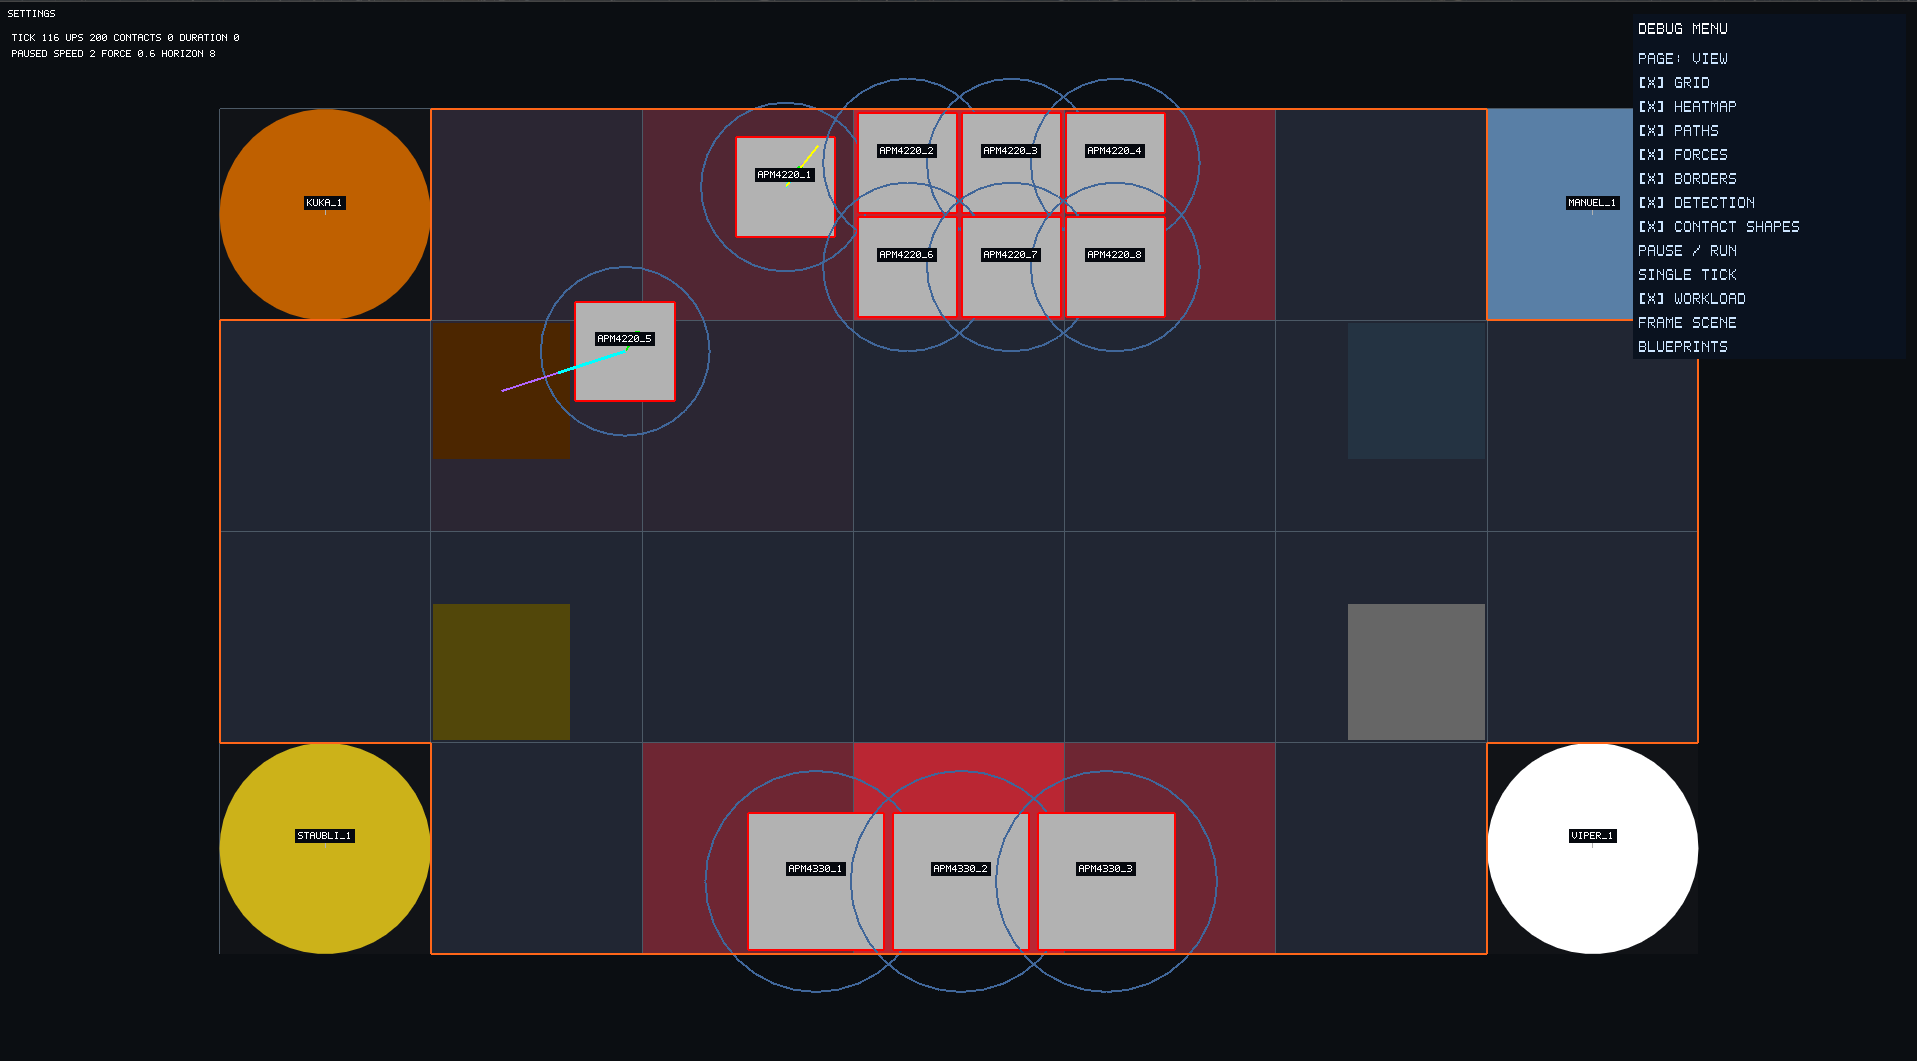
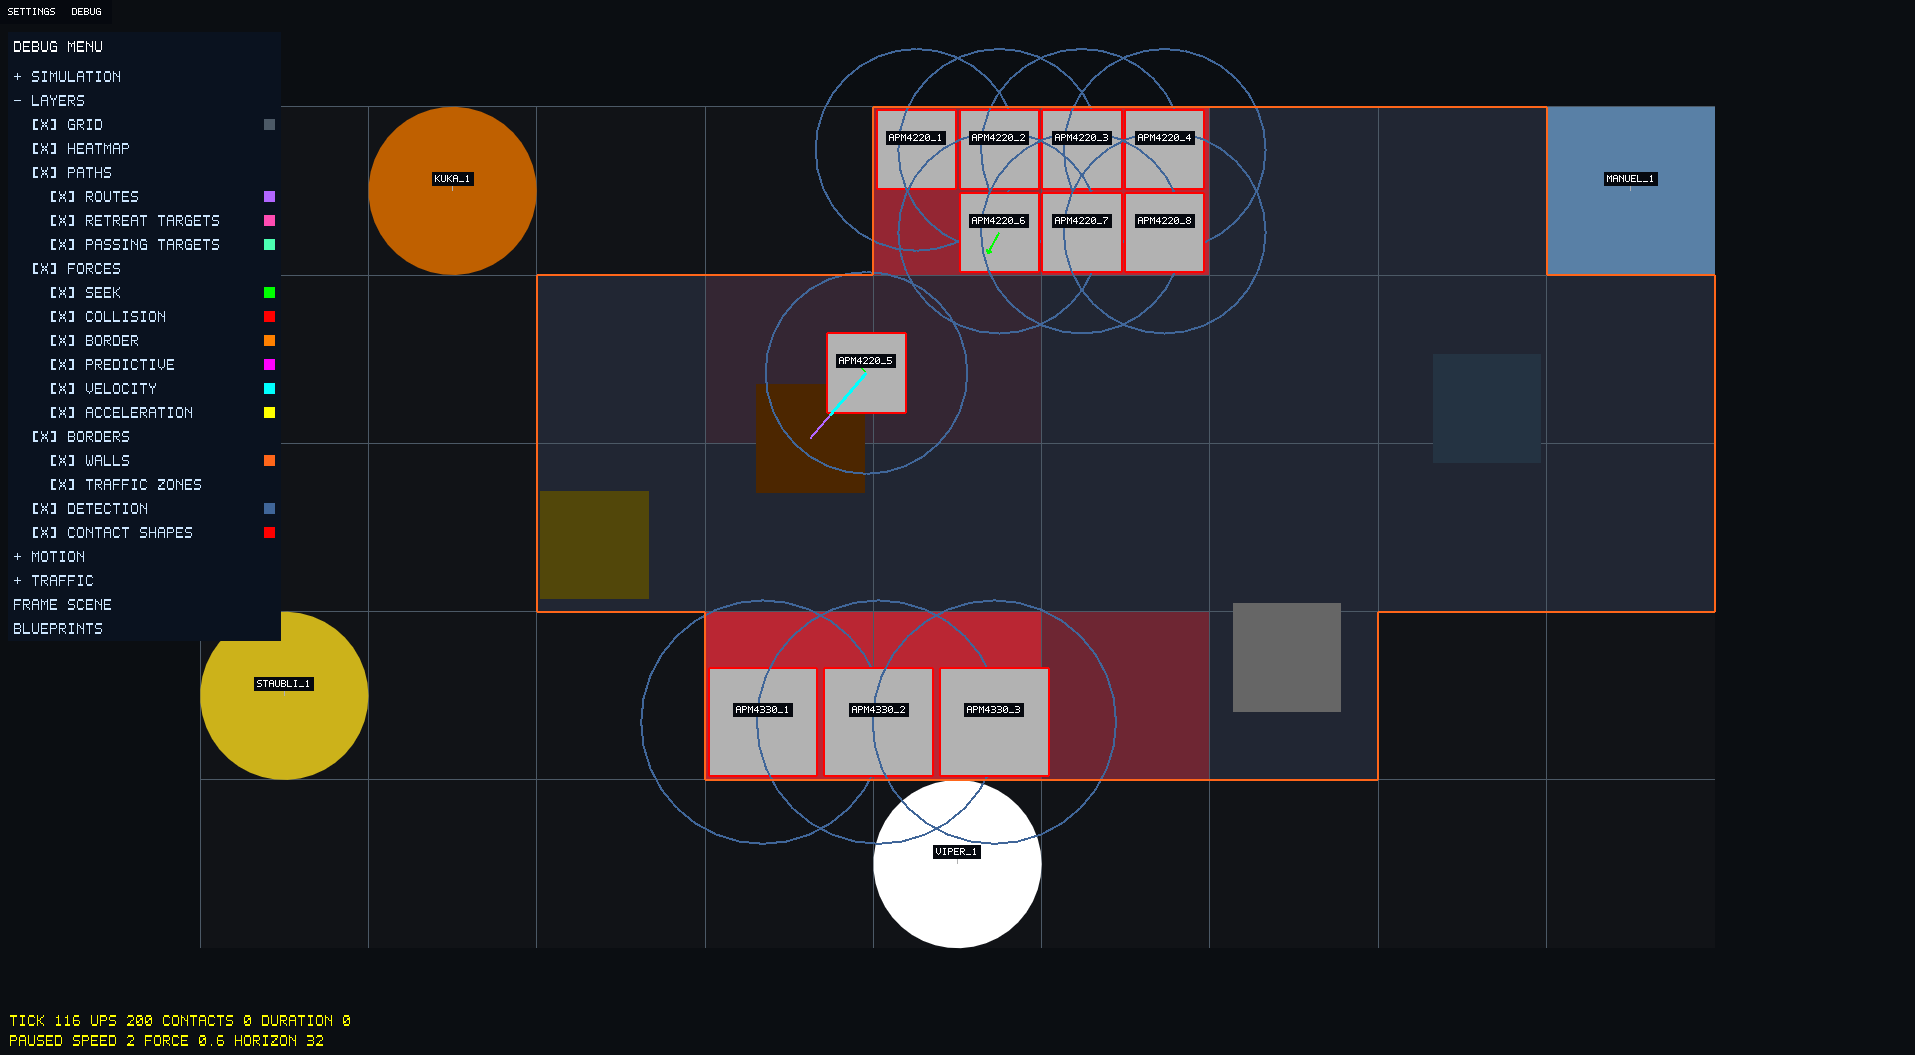
docs(i4sim): describe the sectioned debug menu and refresh its capture
The README, the test guide and the architecture page described the two
pages. They now describe the sections, lists, [-] [+] buttons and layer
parts, and how to add a row or a layer part. The debug capture shows the
LAYERS section with every part and its swatch.

diff --git a/labs/i4sim/README.md b/labs/i4sim/README.md
@@ -79,18 +79,20 @@ Ctrl or the SETTINGS button opens the modal settings panel, which pauses the sim
 | R | Restart the blueprint with the same seed, paused, and keep the motion settings. A showcase scene also gets its goals, workload and repeat setting again, so a changed setting can be compared with the original run |
 | G | Toggle the automatic workload |
 | Q / E | Halve / double the ticks per second |
-| 1–6 | Toggle the Grid, Heatmap, Paths, Forces, Borders and Detection layers (drawn only in Debug Mode) |
+| 1–6 | Toggle the Grid, Heatmap, Paths, Forces, Borders and Detection layers (drawn only in Debug Mode); a layer's parts keep their own selection |
 | WASD / arrows | Pan the camera |
 | Wheel (in Debug Mode) / F | Zoom / fit the floor in the window |
 | Left click / right click | Inspect a mover or producer / also hold the mover or block the producer |
 | Shift + left click | Send the selected mover there as a manual goal |
 
-The debug menu has two pages:
+The debug menu has four sections. A click on a heading (`+ LAYERS`) opens its rows below it and closes the open section; a second click closes it. SIMULATION is open at the start. On/off settings are `[X]` check boxes, a number shows its value with `[-]` and `[+]` buttons, and PROFILE and PLANNER open a list of `[*]` choices below them that closes on a choice. FRAME SCENE and BLUEPRINTS (back to the blueprint screen) stay below the sections.
 
-| Page | Entries |
+| Section | Rows |
 | --- | --- |
-| View | The seven layers (the six above and Contact Shapes), PAUSE / RUN, SINGLE TICK, WORKLOAD, FRAME SCENE, BLUEPRINTS (back to the blueprint screen), CORRIDOR TRAFFIC, PREDICTIVE PASS |
-| Motion | PROFILE, PLANNER (A* with or without heatmap costs), RECOVERY, speed, force and horizon steps with RESET PARAMETERS, the ticks per second, PARKING TRAFFIC, JUNCTION TRAFFIC |
+| SIMULATION | RUNNING, SINGLE TICK, UPS (ticks per second), WORKLOAD |
+| LAYERS | GRID, HEATMAP, PATHS, FORCES, BORDERS, DETECTION, CONTACT SHAPES. While PATHS, FORCES or BORDERS is on, its parts are listed below it: ROUTES, RETREAT TARGETS and PASSING TARGETS; SEEK, COLLISION, BORDER, PREDICTIVE, VELOCITY and ACCELERATION; WALLS and TRAFFIC ZONES. A part is drawn only while it and its layer are on. A color swatch beside a row is the color it is drawn in |
+| MOTION | PROFILE, PLANNER (HEAT A* or plain A*), RECOVERY, SPEED, FORCE, HORIZON, RESET PARAMETERS |
+| TRAFFIC | CORRIDOR TRAFFIC, JUNCTION TRAFFIC, PARKING TRAFFIC, PREDICTIVE PASS (`LEGACY` when the profile has no predictive passing) |
 
 Motion settings can change while the factory runs: assignments and positions stay, routes are rebuilt. A setting the simulation rejects, and a goal it rejects (the mover is held or carries a product, or the goal is blocked or unreachable), shows a message for four seconds and changes nothing.
 
@@ -160,7 +162,7 @@ Public headers, in [include/](include/):
 | [scenario.h](include/scenario.h) | The optional `scenario` section: `load_scenario`, `apply_scenario` |
 | [simulation.h](include/simulation.h) | `Simulation`: the facade with all state queries and commands, `MotionSettings`, the mover, producer and product types |
 | [events.h](include/events.h), [flow_metrics.h](include/flow_metrics.h) | The event log's types; waiting and stuck movers measured from outside |
-| [view.h](include/view.h) | `ViewLayers`, the zoom limits and `flip_y`: view state as plain data |
+| [view.h](include/view.h) | `Layer`, `parent_layer` and `ViewLayers`, the zoom limits and `flip_y`: view state as plain data |
 | [controller.h](include/controller.h) | `FactoryController`: the loaded simulation, selection, messages, camera, keys, pointer and debug-menu entries |
 | [session.h](include/session.h) | `create_session`: the only entry to the graphical session |
 
@@ -214,7 +216,7 @@ sequenceDiagram
 *Takeaway:* the panels see the input first. An open settings panel takes the whole frame; the debug menu takes the pointer while it is over the menu. Only then does the controller map what is left to commands and advance the simulation.
 
 - **Why the controller is separate.** Which key does what, when a click selects, how long a message stays and how the camera fits are rules, and rules need tests. In the controller they are tested from plain `kinetra::Input` values, without a window ([controller tests](tests/controller_tests.cpp)).
-- **Menu entries.** The controller describes each debug-menu row as a `MenuEntry`: a label, an action, and optionally a value text or a check state. The session turns the entries into `kinetra::DebugOption` rows. A check entry is drawn as `[X] NAME` and its action flips the state where it lives, so no flag has to be mirrored between the menu and the simulation.
+- **Menu entries.** The controller describes each debug-menu row as a `MenuEntry`: a label, a kind (button, check box, list choice or heading), a nesting depth, and optionally an action, a state, a value text, `[-]` / `[+]` functions and the layer it selects. It also keeps which section and which list are open. The session only decorates the entries into `kinetra::DebugOption` rows: two spaces per level, then `[X]`, `[*]` or `+` / `-`, and a swatch from `layer_color` for a layer drawn in one color. Every action changes the state where it lives, so no flag has to be mirrored between the menu and the simulation.
 - **Deferred close.** BLUEPRINTS only sets a request. The frame that clicked it still finishes with its simulation; the next `begin_frame` closes it.
 - **Drawing between ticks.** Movers are drawn between their last two ticks (`Mover::previous_position`, `Simulation::interpolation()`), so motion stays even at 60 frames and 200 ticks per second ([drawing between ticks](../../docs/architecture.md#session-ownership-and-frame-flow)).
 
@@ -310,7 +312,7 @@ Before movement, an automatic parking return whose parking footprint lies on ano
 - **Copies are deep.** Copying a `Simulation` copies its whole state, including the event log. Components store no references to each other, so a copy cannot point into the original.
 - **Only goals move goals.** A mover's destination changes only through the `Goals` view, which also cancels the corridor recovery and passing plan that depended on the old goal.
 - **Controller preconditions.** Every `FactoryController` call that reads or commands the simulation requires `loaded()`. `simulation()` returns a reference that a load, a restart or a close invalidates; the drawing code takes it anew each frame.
-- **Frame order.** `begin_frame`, `suspend`, menu actions, `handle_input`, and `update_camera` before drawing. Menu entries borrow the controller and are built anew for every update and every draw, because the page decides which entries exist.
+- **Frame order.** `begin_frame`, `suspend`, menu actions, `handle_input`, and `update_camera` before drawing. Menu entries borrow the controller and are built anew for every update and every draw, because the open section, the open list and the selected layers decide which entries exist.
 - **Failed loads change nothing.** `load_blueprint` never loads partially, and `FactoryController::load` builds the new simulation aside, so a failure leaves the loaded blueprint as it was.
 - **Layers.** The headless library depends on `Kinetra::Simulation` and the headless `lab/input.h` only; the presentation adds `Kinetra::Runtime`, the Lab session helpers and `Kinetra::Launcher` for the blueprint screen ([Lab boundaries](../../AGENTS.md#lab-boundaries)).
 
@@ -319,8 +321,8 @@ Before movement, an automatic parking return whose parking footprint lies on ano
 | To | Change | Test with |
 | --- | --- | --- |
 | Add a key | `FactoryController::handle_keys`; the help lines in `session.cpp`; the [controls](#controls) table | A case in `controller_tests.cpp` |
-| Add a debug-menu entry | `add_view_entries` or `add_motion_entries` in `controller.cpp` | The page-listing cases in `controller_tests.cpp`. The graphics test clicks rows by index, so a new row in the middle moves its `click_row` numbers |
-| Add a debug layer | A flag in `ViewLayers`, an entry (and a key), the drawing in `world_view.cpp`, and `hidden_layers` in `session.cpp` (a `static_assert` reminds you) | Controller cases for the flag; the graphics suite for the drawing |
+| Add a debug-menu entry | The `add_*_entries` function of its section in `controller.cpp`; keep a row with `[-] [+]` within 21 characters | The section-listing cases in `controller_tests.cpp`. The graphics test clicks rows by number (`menu_row` in `presentation_tests.cpp`), so a new row above a clicked one moves those numbers |
+| Add a debug layer or part | A `Layer` value (and `parent_layer` for a part), a row in `layer_rows` in `controller.cpp`, the drawing in `world_view.cpp` and its color in `layer_color`; a key in `handle_keys` for a top-level layer | Controller cases for the rows and `ViewLayers::shows`; the graphics suite for the drawing |
 | Change what the HUD shows | `hud.cpp` | The graphics suite compares the statistics lines |
 | Change simulation behavior | The component that owns it ([simulation structure](../../docs/factory-simulation-architecture.md#simulation-structure)) | The golden and pressure lines change: print them with `KINETRA_PRINT_GOLDEN=1`, update them, and explain the change in the commit |
 | Restructure without changing behavior | Anything | The golden and pressure lines must stay identical after every commit |
@@ -377,6 +379,6 @@ These differences rule out bit-for-bit parity with the reference. Both recipes a
 - RESET PARAMETERS sets the horizon to 8 ticks, while a new simulation starts at 32.
 - `create_session` accepts an `output` directory and ignores it; a graphical session writes no summary.
 - A message that should expire, such as a rejected goal, stays on the blueprint screen when the blueprint is closed within its four seconds: the message ages only while a blueprint is loaded.
-- The graphics suite is one long case that clicks debug-menu rows by index. Named steps would make a failure easier to place.
+- The graphics suite is one long case that clicks debug-menu rows by number. The numbers are named in `menu_row`, but they still follow the menu's layout by hand.
 - Predictive passing is not safe under pressure yet: a third mover in a passing lane, and three oncoming movers, are recorded as today's outcomes. Roadmap [phase 7](../../docs/design/2026-11-18-quality-roadmap.md#phase-7-predictive-passing-under-pressure) addresses them, and [phase 8](../../docs/design/2026-11-18-quality-roadmap.md#phase-8-shared-passing-mechanism) moves the proven mechanism to Kinetra.
 - Desktop playtests and performance checks stay manual.

diff --git a/labs/i4sim/tests/README.md b/labs/i4sim/tests/README.md
@@ -117,13 +117,13 @@ Each case then compares one recorded line: contacts, contacts during passing, pl
 | Pointer | Selecting a mover or a producer and clearing the selection; a right click holds or blocks and keeps the selection on empty floor; Shift-click sends the selected mover; a rejected goal shows a message for four seconds; a captured pointer does nothing |
 | Camera | The fit; panning scaled by frame time (capped at 0.1 s) and zoom; the wheel only in debug mode, within the zoom limits |
 | Modal pause | An open panel pauses a running blueprint and restores it; a paused one stays paused |
-| Debug menu | Both pages list their entries in order; the layer and WORKLOAD entries are check boxes on the real state; PROFILE cycles and names the four profiles; motion entries apply while running; a rejected setting shows its reason; BLUEPRINTS closes the blueprint at the next frame |
+| Debug menu | The menu opens with SIMULATION open; a heading opens its section and closes the other; each section lists its rows in order; layers, WORKLOAD, RUNNING, RECOVERY and the traffic policies are check boxes on the real state; a layer lists its parts only while it is on, and a part draws only while its layer is on; PROFILE and PLANNER open a list that chooses and closes, and a list closes with its section; the number rows show their value and step it while running; a rejected setting shows its reason; BLUEPRINTS closes the blueprint at the next frame |
 
 Not covered: a scene that cannot be replayed after `R`, which needs a scenario that applies on load and fails later.
 
 ## Graphics suite
 
-`presentation_tests.cpp` runs the whole session with an actual OpenGL context, as one case, because only one `Runtime` may exist at a time. It selects a blueprint on the blueprint screen, pauses and resumes, edits motion settings through the debug menu while running and paused and compares the rendered statistics lines, toggles every layer, checks the right-button input edges, the modal settings panel and the return to the launcher, and recovers from a missing blueprint and a missing catalog. It then builds the junction, corridor, corridor-recovery and passing setups through the debug menu and Shift-click goals, from copies of the showcase scenes without their scenario, and counts the pixels of the cyan, blue, lime, pink and mint overlays. Finally it opens the SHOWCASE page, loads a scene paused, runs it and restarts it with `R`, and checks that the restarting corridor-recovery scene moves again after its pause.
+`presentation_tests.cpp` runs the whole session with an actual OpenGL context, as one case, because only one `Runtime` may exist at a time. It selects a blueprint on the blueprint screen, pauses and resumes, checks the color swatches and the PATHS parts in the LAYERS section, edits motion settings through the debug menu's lists and `[-] [+]` buttons while running and paused and compares the rendered statistics lines, toggles every layer, checks the right-button input edges, the modal settings panel and the return to the launcher, and recovers from a missing blueprint and a missing catalog. It then builds the junction, corridor, corridor-recovery and passing setups through the debug menu and Shift-click goals, from copies of the showcase scenes without their scenario, and counts the pixels of the cyan, blue, lime, pink and mint overlays. Finally it opens the SHOWCASE page, loads a scene paused, runs it and restarts it with `R`, and checks that the restarting corridor-recovery scene moves again after its pause.
 
 Set `I4SIM_CAPTURE=<file.ppm>` to save the frame after the Motion checks. Software rendering verifies drawing and input contracts, not desktop feel or performance.
 

diff --git a/docs/media/README.md b/docs/media/README.md
@@ -28,7 +28,7 @@ The PNG files are window captures of about 1915 × 1055 pixels; the exact size v
 
 - **Demo:** `demo-debug.png` has every visual layer enabled (vectors, steering probes, paths, collision shapes, active agents); its statistics show 71 of 193 agents active. The two Demo captures are not the same scene.
 - **Dotio:** `dotio-debug.png` has Debug Mode with vectors, AI states, paths and their filters, steering probes, collision shapes, active agents, hiding hits and Invulnerable enabled.
-- **i4sim:** both captures show the `MAS-demonstrator` blueprint (`MAS-demonstrator.json`), paused at 200 UPS, at tick 83 (`i4sim.png`) and tick 116 (`i4sim-debug.png`, with the View page of the debug menu open). They lack the CORRIDOR TRAFFIC and PREDICTIVE PASS rows of today's View page, so they are due for a refresh.
+- **i4sim:** both captures show the `MAS-demonstrator` blueprint (`MAS-demonstrator.json`), seed 42, paused at 200 UPS, at tick 83 (`i4sim.png`) and tick 116 (`i4sim-debug.png`, with the LAYERS section of the debug menu open and every layer and part on). `i4sim-debug.png` is rendered offscreen like the loadscreen below, at 1915 × 1055.
 - **i4sim loadscreen:** `launcher-loadscreen.png` shows the first catalog page with the SHOWCASE row first and highlighted, then `1680x960+` to `8640x4800`. Unlike the other captures it is not a window capture: it was rendered offscreen (`SDL_VIDEODRIVER=offscreen LIBGL_ALWAYS_SOFTWARE=1`) at 1915 × 1054 from a fresh i4sim session and read back with `glReadPixels`, so it has no window decoration and RGB instead of RGBA pixels.
 
 ## Refreshing the media

diff --git a/docs/factory-simulation-architecture.md b/docs/factory-simulation-architecture.md
@@ -183,9 +183,8 @@ in the wider room. Manual destinations and original parking reservations stay
 intact. The application reuses the existing shared `TrafficGate` without an engine
 API extension.
 
-The option is disabled by default and lives under DEBUG → View → CORRIDOR TRAFFIC,
-alongside scene/workload controls; the shorter Motion page retains its existing
-rows. Blue outlines identify controlled corridors, lime outlines their reserved
+The option is disabled by default and lives under DEBUG → TRAFFIC → CORRIDOR TRAFFIC,
+with the other traffic policies. Blue outlines identify controlled corridors, lime outlines their reserved
 exits, and `LANE WAIT` reports waiting movers/detected corridor count. Admission and
 reservation state are cleared only for disabled policy types.
 
